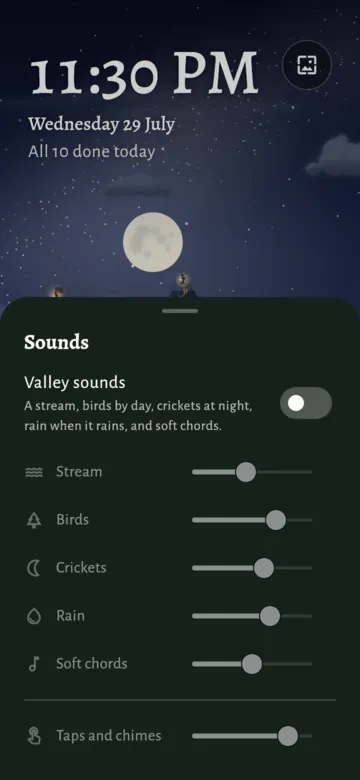
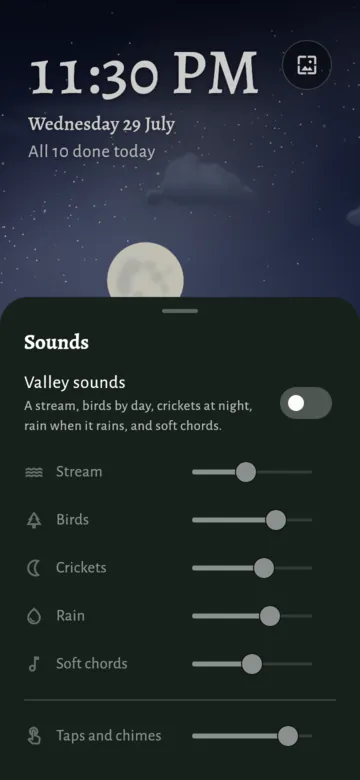
Show Grove's zen on upright screens in the guide

diff --git a/grove/guide/whats-new.html b/grove/guide/whats-new.html
@@ -307,7 +307,7 @@
 <main id="text" class="column">
   <h1>What's new</h1>
   <p class="lead">Every version of Grove and what it brought, newest first.</p>
-  <p class="updated">Updated <time datetime="2026-10-15">15 October 2026</time></p>
+  <p class="updated">Updated <time datetime="2026-10-16">16 October 2026</time></p>
   <div class="intro">
 <p>Throughout the guide, a badge such as "Added in 1.1" shows which version brought a feature.</p>
   </div>
@@ -317,6 +317,7 @@
 <li><a href="#grove-1.8-coming-soon" id="toc-grove-1.8-coming-soon">Grove 1.8: coming soon</a>
 <ul>
 <li><a href="#your-week" id="toc-your-week">Your week</a></li>
+<li><a href="#zen-mode" id="toc-zen-mode">Zen mode</a></li>
 <li><a href="#widgets" id="toc-widgets">Widgets</a></li>
 </ul></li>
 <li><a href="#grove-1.7.1-october-2026" id="toc-grove-1.7.1-october-2026">Grove 1.7.1, October 2026</a>
@@ -339,7 +340,7 @@
 <li><a href="#a-habits-page" id="toc-a-habits-page">A habit's page</a></li>
 <li><a href="#the-valley-1" id="toc-the-valley-1">The valley</a></li>
 <li><a href="#sounds" id="toc-sounds">Sounds</a></li>
-<li><a href="#zen-mode" id="toc-zen-mode">Zen mode</a></li>
+<li><a href="#zen-mode-1" id="toc-zen-mode-1">Zen mode</a></li>
 <li><a href="#sharing" id="toc-sharing">Sharing</a></li>
 </ul></li>
 <li><a href="#grove-1.6-october-2026" id="toc-grove-1.6-october-2026">Grove 1.6, October 2026</a>
@@ -354,7 +355,7 @@
 <li><a href="#replay-your-valley" id="toc-replay-your-valley">Replay your valley</a></li>
 <li><a href="#colours" id="toc-colours">Colours</a></li>
 <li><a href="#elsewhere" id="toc-elsewhere">Elsewhere</a></li>
-<li><a href="#zen-mode-1" id="toc-zen-mode-1">Zen mode</a></li>
+<li><a href="#zen-mode-2" id="toc-zen-mode-2">Zen mode</a></li>
 <li><a href="#the-sky" id="toc-the-sky">The sky</a></li>
 <li><a href="#reminders-and-widgets" id="toc-reminders-and-widgets">Reminders and widgets</a></li>
 <li><a href="#smoother-and-easier-on-the-battery" id="toc-smoother-and-easier-on-the-battery">Smoother, and easier on the battery</a></li>
@@ -388,7 +389,7 @@
 <li><a href="#habits-1" id="toc-habits-1">Habits</a></li>
 <li><a href="#seasons" id="toc-seasons">Seasons</a></li>
 <li><a href="#the-valley-4" id="toc-the-valley-4">The valley</a></li>
-<li><a href="#zen-mode-2" id="toc-zen-mode-2">Zen mode</a></li>
+<li><a href="#zen-mode-3" id="toc-zen-mode-3">Zen mode</a></li>
 <li><a href="#settings" id="toc-settings">Settings</a></li>
 <li><a href="#fixes-3" id="toc-fixes-3">Fixes</a></li>
 </ul></li>
@@ -410,6 +411,13 @@
 <ul>
 <li>For a habit done more than once a day, <strong>Times done</strong> in Your week counts every time, not each day once, and the habit's row says how many in all, such as "9 times in all".</li>
 <li>The week's share card counts every time in its <strong>Times done</strong> too.</li>
+</ul>
+</section>
+<section id="zen-mode" class="level3">
+<h3>Zen mode</h3>
+<ul>
+<li>On a phone held upright, zen draws the valley a little nearer: its plants and mountains are larger, the hills lower, and less of the screen is empty meadow.</li>
+<li>On a tablet or an open foldable held upright, zen shows sideways, as it does on a tablet held sideways: turn the device to its left to see it. While you make a wallpaper, zen is upright.</li>
 </ul>
 </section>
 <section id="widgets" class="level3">
@@ -563,7 +571,7 @@
 <li>In zen mode, the stream and the rain are warmer, and the birds quieter.</li>
 </ul>
 </section>
-<section id="zen-mode" class="level3">
+<section id="zen-mode-1" class="level3">
 <h3>Zen mode</h3>
 <ul>
 <li>The moon's line names its phase more closely: New moon, First quarter, Full moon and Last quarter show for about a day either side of their moment, not three or four days, and they no longer come hours early.</li>
@@ -666,7 +674,7 @@
 <li>Every find's picture on the Unlocked page moves when you open it: stars twinkle, the sun and moon glow, the shooting star streaks across, and clouds drift. Some used to stand still.</li>
 </ul>
 </section>
-<section id="zen-mode-1" class="level3">
+<section id="zen-mode-2" class="level3">
 <h3>Zen mode</h3>
 <ul>
 <li><strong>Make a wallpaper</strong>, at the top of zen mode's controls: choose the time of day, from sunrise to night by the real sun where you are, and the weather, with a rainbow by day, and the valley shows it as you choose. Pinch to frame it, then <strong>Set as wallpaper</strong>, which opens Android's own wallpaper screen, or <strong>Save to photos</strong>. It is your own valley, at your screen's full size.</li>
@@ -901,7 +909,7 @@
 <li>At sunrise and sunset the snow and high rock of the trail mountains glow rose, as real peaks do. A cloudy sky hides most of it.</li>
 </ul>
 </section>
-<section id="zen-mode-2" class="level3">
+<section id="zen-mode-3" class="level3">
 <h3>Zen mode</h3>
 <ul>
 <li>Zen mode no longer dims the screen late at night. Its light follows the sky alone.</li>

diff --git a/grove/guide/how-it-works.html b/grove/guide/how-it-works.html
@@ -307,7 +307,7 @@
 <main id="text" class="column">
   <h1>How Grove works</h1>
   <p class="lead">Habits you build and habits you let go of, tasks, what the valley shows, zen mode, widgets, reminders, backups and settings.</p>
-  <p class="updated">Updated <time datetime="2026-10-15">15 October 2026</time></p>
+  <p class="updated">Updated <time datetime="2026-10-16">16 October 2026</time></p>
   <div class="intro">
 <p>Grove turns your habits into a small valley. Good days make the valley green, sunny and full of life. This page explains the rules in simple steps.</p>
 <ul>
@@ -1513,11 +1513,13 @@
 <h2>Zen mode</h2>
 <ul>
 <li>Tap the zen button (the arrows at the top of the valley), or press and hold the valley, to see it full screen. On Android you can also press and hold Grove's icon and choose <strong>Zen mode</strong>.</li>
-<li>The land fills about the lower half of the screen, with a tall sky above. On a clear night it shows the Milky Way and now and then a shooting star; by day a hawk circles.</li>
+<li>The land fills the lower part of the screen, with a tall sky above. On a clear night it shows the Milky Way and now and then a shooting star; by day a hawk circles.</li>
+<li>On a phone held upright, the valley is drawn a little nearer, so its plants and mountains are larger and less of the screen is empty meadow. Its sides reach a little past the screen's edges. <span class="since">Coming in 1.8</span></li>
+<li>On a tablet or an open foldable held upright, zen shows sideways, as it does on a tablet held sideways: turn the device to its left to see it. With auto-rotate on, the screen turns with the device; with it off, zen stays sideways. While you make a wallpaper, zen is upright, as a wallpaper is. <span class="since">Coming in 1.8</span></li>
 <li>Tap the screen to show the time, the date, how today is going and the buttons. They fade again after a few seconds. You can add sunrise, sunset and the moon to them (see below). <span class="since">Added in 1.6</span></li>
 </ul>
 <figure class="shot">
-<picture><img src="shots/zen-360.webp" srcset="shots/zen-360.webp 360w, shots/zen.webp 720w" sizes="(min-width: 48rem) 16rem, min(18rem, calc(100vw - 2rem))" width="360" height="780" alt="Zen mode filling a phone: a starry night with a full moon over three mountains with lit trails, and the time, 11:30 PM, Wednesday 29 July, &quot;All 10 done today&quot;. At the top right, a round button to make a wallpaper; at the bottom, four more: Screenshot, Keep screen on, Sounds and Leave zen mode." loading="lazy" decoding="async"></picture>
+<picture><img src="shots/zen-360.webp" srcset="shots/zen-360.webp 360w, shots/zen.webp 720w" sizes="(min-width: 48rem) 16rem, min(18rem, calc(100vw - 2rem))" width="360" height="780" alt="Zen mode filling a phone: a starry night with a full moon over mountains with lit trails, drawn near enough that their sides run past the screen, and the time, 11:30 PM, Wednesday 29 July, &quot;All 10 done today&quot;. At the top right, a round button to make a wallpaper; at the bottom, four more: Screenshot, Keep screen on, Sounds and Leave zen mode." loading="lazy" decoding="async"></picture>
 <figcaption>Zen mode on a night of full moon, after a tap.</figcaption>
 </figure>
 <ul>
